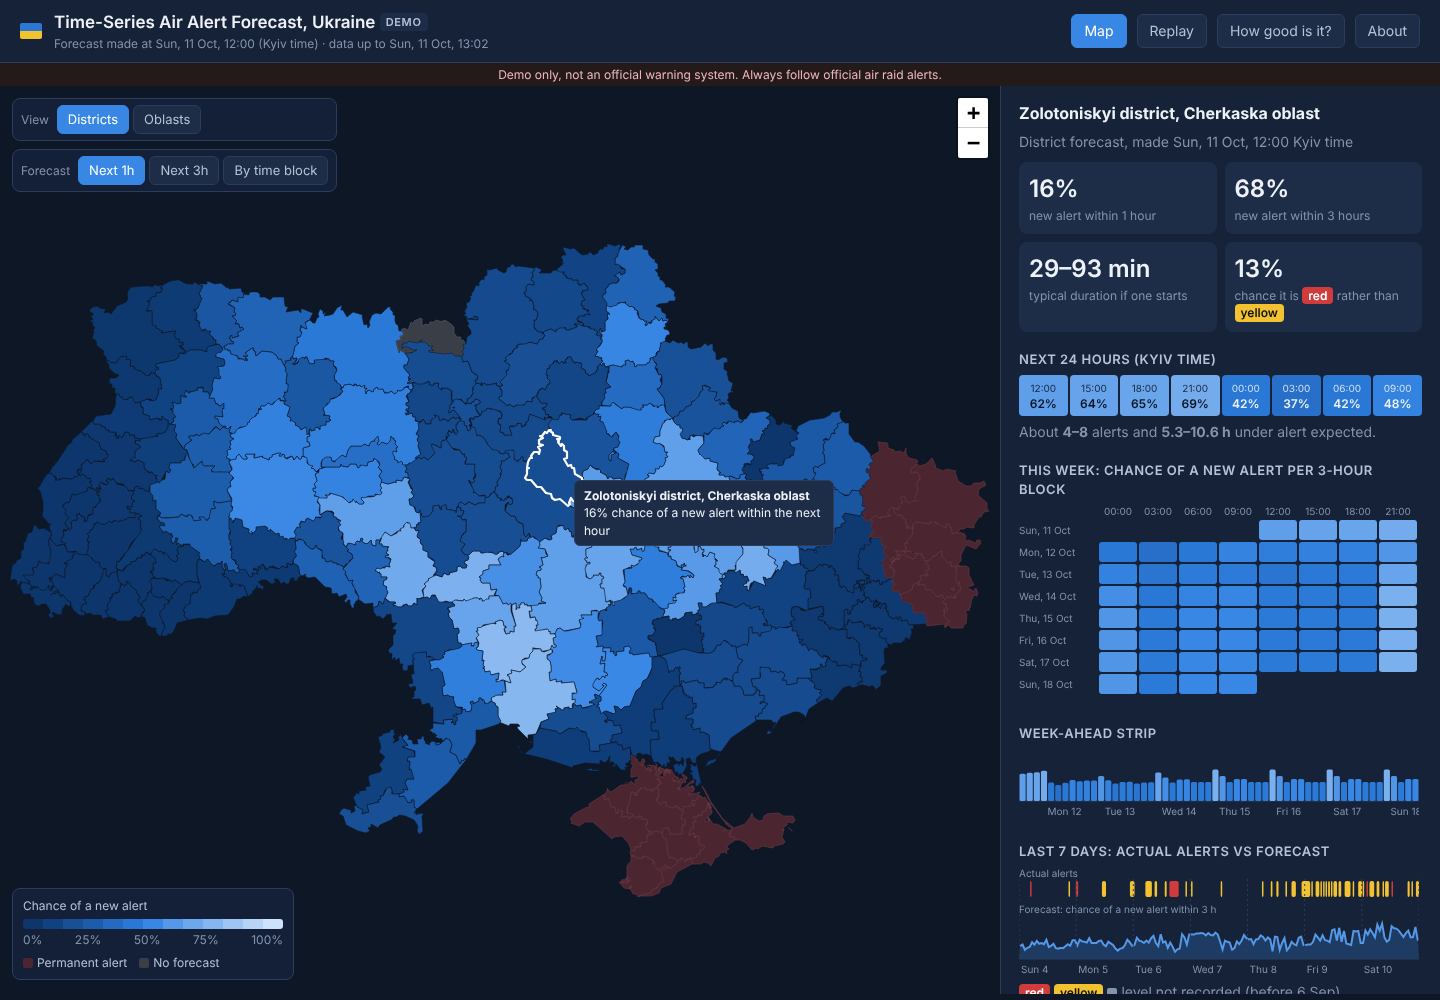
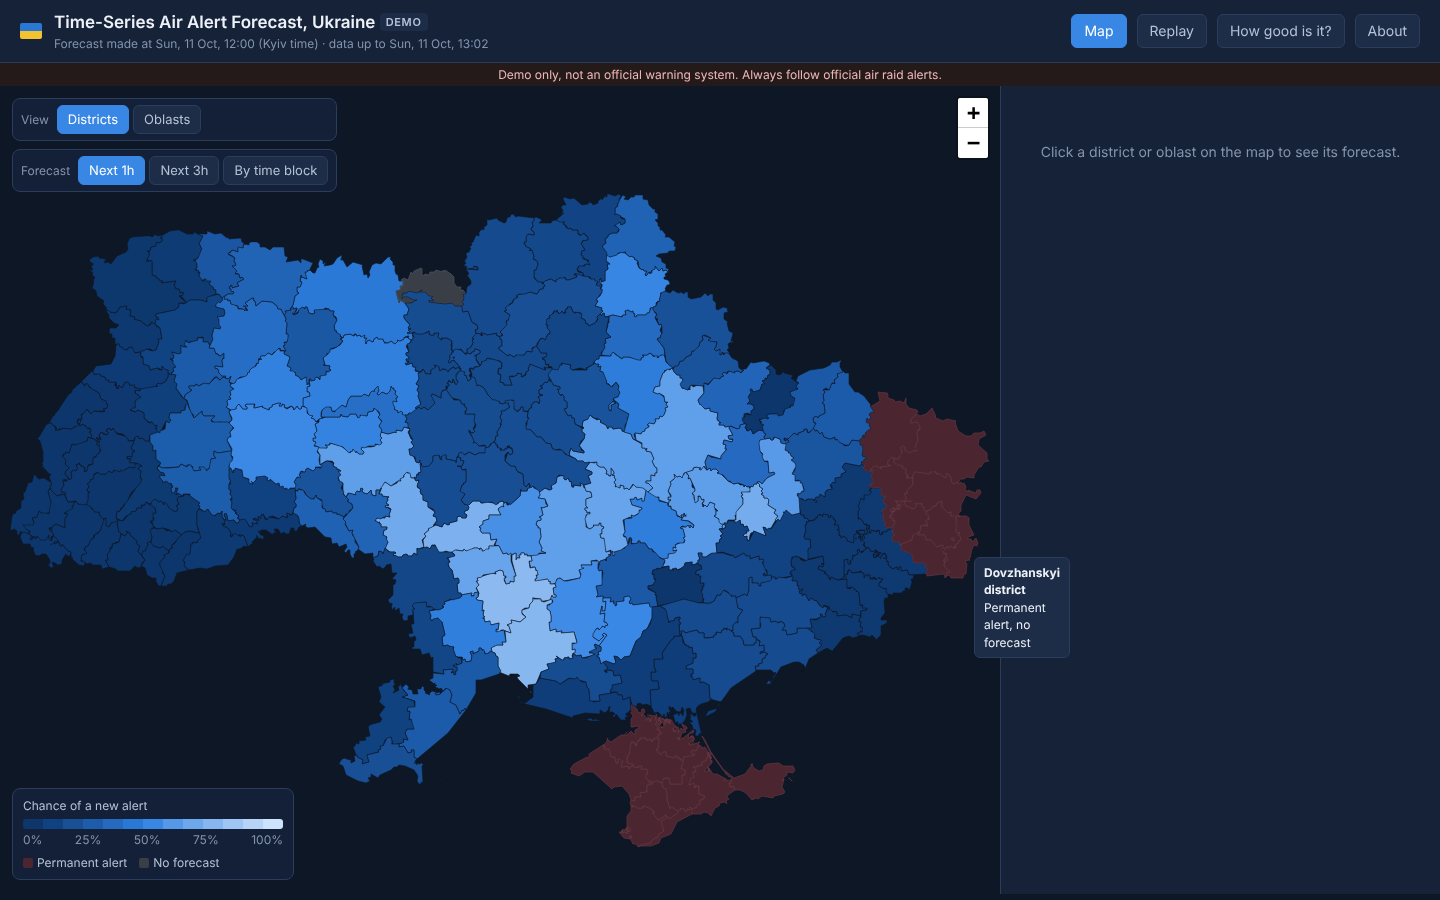
Merged 'How good is it?' page with model-comparison charts; screenshots
Claude-Session: https://claude.ai/code/session_01GyBQi7RKiQhyCoUGm942Yq

diff --git a/site/app.js b/site/app.js
@@ -279,27 +279,197 @@ function initReplay() {
   draw(0);
 }
 
-// ---------- quality ----------
+// ---------- quality: how good is it? (test results + model comparison) ----------
+const CH = { chosen: "#3987e5", other: "#6b7a93", s2: "#d95926", s3: "#199e70", grid: "#2b3d5c", ink: "#b6c2d6", muted: "#8394ad" };
+const f3 = (v) => (v == null ? "–" : (+v).toFixed(3));
+const f2 = (v) => (v == null ? "–" : (+v).toFixed(2));
+
+// Horizontal bars, one per method; the chosen method in blue, alternatives grey; value labels at the bar end.
+function hbars(host, title, items, { fmt = f3, min = 0, max = 1, ref = null, note = "" } = {}) {
+  const W = 400, lw = 150, rowH = 26, top = ref ? 18 : 6, H = top + items.length * rowH + 22;
+  const sx = (v) => lw + ((v - min) / (max - min)) * (W - lw - 54);
+  const box = el("div", { className: "chart" }, `<div class="ctitle">${title}</div>`);
+  const svg = svgEl("svg", { width: W, height: H });
+  const x0 = sx(Math.max(min, 0));
+  [min, (min + max) / 2, max].forEach((v) => {
+    svg.append(svgEl("line", { x1: sx(v), x2: sx(v), y1: top, y2: H - 18, stroke: CH.grid, "stroke-dasharray": "2,3" }));
+    const t = svgEl("text", { x: sx(v) - 8, y: H - 4 }); t.textContent = fmt(v); svg.append(t);
+  });
+  items.forEach((it, k) => {
+    const y = top + k * rowH, a = Math.min(x0, sx(it.v)), w = Math.max(2, Math.abs(sx(it.v) - x0));
+    const lab = svgEl("text", { x: 0, y: y + 15, class: it.chosen ? "strong" : "" }); lab.textContent = it.label; svg.append(lab);
+    const r = svgEl("rect", { x: a, y: y + 4, width: w, height: 16, rx: 4, fill: it.chosen ? CH.chosen : CH.other });
+    r.onmousemove = (e) => showTip(e, `${it.label}: <b>${fmt(it.v)}</b>${it.tip ? "<br>" + it.tip : ""}`);
+    r.onmouseleave = () => (tip.hidden = true);
+    svg.append(r);
+    // with a reference line the value sits inside the bar end, so it never collides with the line
+    const v = ref ? svgEl("text", { x: sx(it.v) - 6, y: y + 16, "text-anchor": "end", class: "inbar" })
+      : svgEl("text", { x: Math.max(sx(it.v), x0) + 5, y: y + 16, class: it.chosen ? "strong" : "" });
+    v.textContent = fmt(it.v); svg.append(v);
+  });
+  svg.append(svgEl("line", { x1: x0, x2: x0, y1: top, y2: H - 18, stroke: CH.muted }));
+  if (ref) {
+    svg.append(svgEl("line", { x1: sx(ref.v), x2: sx(ref.v), y1: top, y2: H - 18, stroke: "#eef2f8", "stroke-width": 1.5, "stroke-dasharray": "5,3" }));
+    const t = svgEl("text", { x: sx(ref.v), y: top - 6, "text-anchor": "middle" }); t.textContent = ref.label; svg.append(t);
+  }
+  box.append(svg);
+  if (note) box.append(el("div", { className: "cnote" }, note));
+  host.append(box);
+}
+
+// Lines over x categories (e.g. lead day), legend + end labels, hover shows all series at that x.
+function lchart(host, title, xs, series, { fmt = f3, min, max, note = "" } = {}) {
+  const W = 400, H = 210, l = 40, r = 70, t = 10, b = 26;
+  const sx = (i) => l + (i / (xs.length - 1)) * (W - l - r), sy = (v) => t + (1 - (v - min) / (max - min)) * (H - t - b);
+  const box = el("div", { className: "chart" }, `<div class="ctitle">${title}</div>`);
+  const svg = svgEl("svg", { width: W, height: H });
+  for (let k = 0; k <= 4; k++) {
+    const v = min + (k / 4) * (max - min);
+    svg.append(svgEl("line", { x1: l, x2: W - r, y1: sy(v), y2: sy(v), stroke: CH.grid }));
+    const tx = svgEl("text", { x: 0, y: sy(v) + 4 }); tx.textContent = fmt(v); svg.append(tx);
+  }
+  xs.forEach((x, i) => { const tx = svgEl("text", { x: sx(i) - 14, y: H - 6 }); tx.textContent = x; svg.append(tx); });
+  series.forEach((s) => {
+    svg.append(svgEl("polyline", { points: s.vals.map((v, i) => `${sx(i)},${sy(v)}`).join(" "), fill: "none", stroke: s.color, "stroke-width": 2 }));
+    s.vals.forEach((v, i) => svg.append(svgEl("circle", { cx: sx(i), cy: sy(v), r: 4, fill: s.color, stroke: "#0e1726", "stroke-width": 2 })));
+  });
+  // end labels, nudged apart so they never overlap
+  const ends = series.map((s) => ({ s, y: sy(s.vals[s.vals.length - 1]) })).sort((a, b2) => a.y - b2.y);
+  ends.forEach((e, k) => { if (k && e.y - ends[k - 1].y < 13) e.y = ends[k - 1].y + 13; });
+  ends.forEach((e) => { const tx = svgEl("text", { x: W - r + 6, y: e.y + 4 }); tx.textContent = e.s.short; tx.setAttribute("fill", CH.ink); svg.append(tx); });
+  xs.forEach((x, i) => {
+    const hit = svgEl("rect", { x: sx(i) - (W - l - r) / (2 * (xs.length - 1)), y: t, width: (W - l - r) / (xs.length - 1), height: H - t - b, fill: "transparent" });
+    hit.onmousemove = (e) => showTip(e, `<b>${x}</b><br>` + series.map((s) => `<i class="sw" style="background:${s.color}"></i>${s.name}: <b>${fmt(s.vals[i])}</b>`).join("<br>"));
+    hit.onmouseleave = () => (tip.hidden = true);
+    svg.append(hit);
+  });
+  box.append(svg);
+  box.append(el("div", { className: "legend-row" }, series.map((s) => `<span><i class="sw" style="background:${s.color}"></i>${s.name}</span>`).join("")));
+  if (note) box.append(el("div", { className: "cnote" }, note));
+  host.append(box);
+}
+
 function renderQuality() {
-  const M = S.D.metrics;
+  const M = S.D.metrics, F = M.full, LV = { raion: "District", oblast: "Oblast" };
   const rows = (arr, cols) => arr.map((r) => `<tr>${cols.map(([k, f, num]) => `<td class="${num ? "num" : ""}">${f ? f(r[k]) : r[k]}</td>`).join("")}</tr>`).join("");
-  const n3 = (v) => (v == null ? "–" : (+v).toFixed(3));
-  $("#quality").innerHTML = `<div class="docbody">
+  const cov = M.range_coverage_validation_week;
+  $("#quality").innerHTML = `<div class="docbody wide">
     <h2>How good is it?</h2>
-    <p>Test period: <b>${M.test_period[0]} – ${M.test_period[1]}</b>. The models were trained only on data before this period,
-      and every forecast used only information available at its time. "Baseline" is the simple rule "how often did an alert start
-      at this clock hour on each of the last 14 days".</p>
+    <p>Everything on this page was measured on the <b>test period ${M.test_period[0]} – ${M.test_period[1]}</b>: four weeks that no model and
+      no design choice had seen. Every model was trained only on earlier data, every forecast used only information available at its
+      time, and the test was run <b>once</b>. All choices were frozen before it, and nothing was changed after seeing the results, including
+      the two places where our model lost (marked <span class="lost">lost</span> below).</p>
     <p><b>AUC</b>: the chance that a random hour with a new alert got a higher forecast than a random hour without one (0.5 = guessing, 1 = perfect).
-      <b>Skill</b>: how much smaller the forecast errors are than the baseline's (0 = no better, 0.3 = 30% smaller).</p>
-    <table><tr><th>What we predict</th><th>Level</th><th class="num">Model AUC</th><th class="num">Baseline AUC</th><th class="num">Skill</th></tr>
-      ${rows(M.headline, [["target"], ["level"], ["model_auc", n3, 1], ["baseline_auc", n3, 1], ["skill", n3, 1]])}</table>
-    <h3>Calibration: when we say p, how often does it happen?</h3><div id="calib"></div>
-    <h3>Day vs night</h3><table><tr><th>Part of day (Kyiv)</th><th class="num">AUC</th></tr>${rows(M.day_night, [["part"], ["auc", n3, 1]])}</table>
-    <h3>With vs without Telegram (@war_monitor)</h3>
-    <p>The same model with and without 26 inputs computed from @war_monitor posts. Skill vs baseline; higher is better.</p>
-    <table><tr><th>Target</th><th class="num">Without Telegram</th><th class="num">With Telegram</th></tr>${rows(M.telegram, [["target"], ["without", n3, 1], ["with", n3, 1]])}</table>
+      <b>Skill</b>: how much smaller the forecast errors (Brier score) are than the simple rule "how often did an alert start at this clock hour on
+      each of the last 14 days" (0 = no better, 0.3 = 30% smaller, below 0 = worse). In the charts, <span class="chip-b">blue</span> is the method
+      the site uses and <span class="chip-g">grey</span> are the alternatives.</p>
+    <table><tr><th>What we predict</th><th>Level</th><th class="num">Model AUC</th><th class="num">Simple rule AUC</th><th class="num">Skill</th></tr>
+      ${rows(M.headline, [["target"], ["level"], ["model_auc", f3, 1], ["baseline_auc", f3, 1], ["skill", f3, 1]])}</table>
+
+    <h3>1. Our model vs simpler methods: will a new alert start?</h3>
+    <div class="seg" id="q-metric"><button data-m="ROC-AUC" class="on">AUC</button><button data-m="skill vs same-hour">Skill</button></div>
+    <p class="cap">LightGBM (our model) against three simpler methods: the clock-hour rule, "persistence" (an alert is likely again if one started in the
+      last hours) and logistic regression (a simple straight-line model). Higher is better.</p>
+    <div class="grid2" id="q-models"></div>
+
+    <h3>2. Does Telegram help?</h3>
+    <p class="cap">The same model with extra inputs from Telegram channels (@war_monitor: threat reports; @kpszsu: the Air Force). Skill; higher is better.
+      Telegram was <b>not</b> used, because it lost on the validation weeks before the test. On the test, @war_monitor was slightly better at oblast level and
+      slightly worse at district level; differences below 0.01 are within noise.</p>
+    <div class="grid2" id="q-tg"></div>
+
+    <h3>3. Is it stable? Week by week, day vs night</h3>
+    <p class="cap">Skill of the 3-hour forecast in each full test week, and AUC by time of day (Kyiv). The model was useful in every week, a bit better by day.</p>
+    <div class="grid2" id="q-stab"></div>
+
+    <h3>4. Can the percentages be taken literally? (calibration)</h3>
+    <p class="cap">District forecasts for 3 hours, grouped by the forecast. When we said 40–50%, an alert started in about 46% of cases. Points on the dashed line = perfect.</p>
+    <div id="calib"></div>
+
+    <h3>5. How long will an alert last? (duration ranges)</h3>
+    <p class="cap">We show a range "usually X–Y min" (our 25th–75th percentile). A good range contains the true duration about half the time (dashed line).</p>
+    <div class="grid2" id="q-dur"></div>
+
+    <h3>6. Next 24 hours: how many alerts, how many hours under alert?</h3>
+    <p class="cap">Average miss (lower is better), against "same as the last 24 hours" and "daily average of the last 7 days".
+      Hours under alert: our model wins by 8%. Number of alerts: <span class="lost">lost</span>, the 7-day average was 4–8% better.
+      The ranges shown on the map contained the true value ${pct(cov.raion.y_hours_24h.inside_25_75_range)} (hours) and ${pct(cov.raion.y_count_24h.inside_25_75_range)} (count) of the time
+      in the last validation week (ideal about 50%).</p>
+    <div class="grid2" id="q-24"></div>
+
+    <h3>7. When in the coming week? (3-hour blocks)</h3>
+    <p class="cap">AUC by how many days ahead. The site uses a <b>blend</b>: our timing model for the near term, fading into the "pattern rule"
+      (share of the last 14 days with an alert in that clock block) by day 3. Districts: the blend was best on days 1–3.
+      Oblasts: <span class="lost">lost</span>, the blend's percentages for days 1–2 were less accurate than the pattern rule's
+      (average error ${f3(F.oblast.timing.brier_by_day["blend (chosen)"]["day 1"])} vs ${f3(F.oblast.timing.brier_by_day["pattern rule"]["day 1"])} on day 1), although it ranks blocks equally well.</p>
+    <div class="grid2" id="q-time"></div>
+
+    <h3>8. Red or yellow?</h3>
+    <p class="cap">If an alert starts in a district, is it red (missiles, ballistic) or yellow (drones)? Trained on ${F.red.train.toLocaleString()} alerts
+      from 6–26 Sep, tested on ${F.red.test.toLocaleString()} alerts from 27 Sep (${pct(F.red.red_share)} red). The simple rule
+      "this district's red share in the last 7 days" works best.</p>
+    <div class="grid2" id="q-red"></div>
   </div>`;
+
+  const MODELS = [["baseline: same hour, last 14 days", "Clock-hour rule"], ["baseline: persistence", "Persistence"],
+    ["logistic regression", "Logistic regression"], ["LightGBM (chosen)", "LightGBM (ours)"]];
+  const drawModels = (metric) => {
+    const host = $("#q-models"); host.innerHTML = "";
+    for (const lv of ["raion", "oblast"]) for (const h of [1, 3]) {
+      const tb = F[lv][`start_${h}h`].table;
+      hbars(host, `${LV[lv]}, new alert within ${h} h`, MODELS.map(([k, lab]) => ({ label: lab, v: tb[k][metric], chosen: k.includes("chosen") })),
+        metric === "ROC-AUC" ? { min: 0.5, max: 0.9 } : { min: -0.2, max: 0.5 });
+    }
+  };
+  drawModels("ROC-AUC");
+  document.querySelectorAll("#q-metric button").forEach((b) => (b.onclick = () => {
+    document.querySelectorAll("#q-metric button").forEach((x) => x.classList.toggle("on", x === b)); drawModels(b.dataset.m);
+  }));
+
+  for (const lv of ["raion", "oblast"]) for (const h of [1, 3]) {
+    const tb = F[lv][`start_${h}h`].table, k = "skill vs same-hour";
+    hbars($("#q-tg"), `${LV[lv]}, new alert within ${h} h`, [
+      { label: "No Telegram (used)", v: tb["LightGBM (chosen)"][k], chosen: true },
+      { label: "+ @war_monitor", v: tb["LightGBM + @war_monitor"][k] }, { label: "+ @kpszsu", v: tb["LightGBM + @kpszsu"][k] }],
+    { min: 0, max: 0.5 });
+  }
+  for (const lv of ["raion", "oblast"]) {
+    const wk = F[lv].start_3h.weeks;
+    hbars($("#q-stab"), `${LV[lv]}: skill by test week (3 h)`, ["week 1", "week 2", "week 3", "week 4"].map((w) => ({ label: w[0].toUpperCase() + w.slice(1), v: wk[w]["skill vs same-hour"], chosen: true })),
+      { min: 0, max: 0.6, note: "A fifth, partial week (the last 10 hours of data) is left out." });
+  }
+  for (const lv of ["raion", "oblast"]) {
+    const dn = F[lv].start_3h.day_night;
+    hbars($("#q-stab"), `${LV[lv]}: AUC by time of day (3 h)`, [{ label: "Day (06–22)", v: dn["day (06-22 Kyiv)"]["ROC-AUC"], chosen: true },
+      { label: "Night (22–06)", v: dn["night (22-06 Kyiv)"]["ROC-AUC"], chosen: true }], { min: 0.5, max: 0.9 });
+  }
   drawCalibration($("#calib"), M.calibration);
+  for (const lv of ["raion", "oblast"]) {
+    const d = F[lv].duration, k = "true duration inside the 25-75% range", wk = "average range width (min)";
+    hbars($("#q-dur"), `${LV[lv]}: true duration inside the range`, [
+      { label: "Last 10 alerts (rule)", v: d["baseline: last 10 alerts"][k], tip: `average range width ${Math.round(d["baseline: last 10 alerts"][wk])} min` },
+      { label: "LightGBM (ours)", v: d["LightGBM quantiles (chosen)"][k], chosen: true, tip: `average range width ${Math.round(d["LightGBM quantiles (chosen)"][wk])} min` }],
+    { fmt: pct, min: 0, max: 0.7, ref: { v: 0.5, label: "ideal" } });
+  }
+  const R24 = [["baseline: same as last 24h", "Same as last 24 h"], ["baseline: daily average of last 7 days", "7-day average"], ["LightGBM (chosen)", "LightGBM (ours)"]];
+  for (const [tg, name, unit] of [["hours", "hours under alert", "h"], ["count", "number of alerts", ""]]) for (const lv of ["raion", "oblast"]) {
+    const t = F[lv].next24h[tg];
+    hbars($("#q-24"), `${LV[lv]}: ${name}, average miss${unit ? " (h)" : ""}`, R24.map(([k, lab]) => ({ label: lab, v: t[k].MAE, chosen: k.includes("chosen") })),
+      { fmt: f2, min: 0, max: 2.5 });
+  }
+  const days = ["day 1", "day 2", "day 3", "day 4", "day 5", "day 6", "day 7"];
+  for (const lv of ["raion", "oblast"]) {
+    const a = F[lv].timing.auc_by_day;
+    lchart($("#q-time"), `${LV[lv]}: AUC by days ahead`, days.map((d) => d.replace("day ", "Day ")), [
+      { name: "Blend (used)", short: "Blend", color: CH.chosen, vals: days.map((d) => a["blend (chosen)"][d]) },
+      { name: "Pattern rule", short: "Pattern", color: CH.s2, vals: days.map((d) => a["pattern rule"][d]) },
+      { name: "Timing model alone", short: "Model", color: CH.s3, vals: days.map((d) => a["timing model alone"][d]) }],
+    { min: 0.78, max: 0.84 });
+  }
+  const rt = F.red.table;
+  hbars($("#q-red"), "Red vs yellow: AUC", [["baseline: overall red share", "Always the average share"], ["baseline: previous alert's level", "Previous alert's level"],
+    ["logistic, 5 level features", "Logistic regression"], ["raion red share last 7 days (chosen)", "Red share, last 7 days"]]
+    .map(([k, lab]) => ({ label: lab, v: rt[k]["ROC-AUC"], chosen: k.includes("chosen") })), { min: 0.5, max: 0.9 });
 }
 function drawCalibration(host, cal) {
   const W = 360, H = 300, m = 34, sx = (v) => m + v * (W - m - 8), sy = (v) => H - m - v * (H - m - 8);

diff --git a/site/style.css b/site/style.css
@@ -81,3 +81,23 @@ td.num, th.num { text-align: right; font-variant-numeric: tabular-nums; }
 .rbtns { display: flex; gap: 6px; margin: 8px 0 14px; }
 #rstats .tile { margin-bottom: 8px; }
 [hidden] { display: none !important; }
+
+/* quality page charts */
+.docbody.wide { max-width: 900px; }
+.grid2 { display: grid; grid-template-columns: 1fr 1fr; gap: 14px 24px; margin: 6px 0 22px; }
+.chart { background: var(--surface); border: 1px solid var(--line); border-radius: 8px; padding: 10px 12px; }
+.chart svg { display: block; overflow: visible; }
+.chart text { fill: var(--text-muted); font-size: 11px; }
+.chart text.strong { fill: var(--text-primary); font-weight: 600; }
+.ctitle { color: var(--text-primary); font-size: 13px; font-weight: 600; margin-bottom: 6px; }
+.cnote { color: var(--text-muted); font-size: 11px; margin-top: 4px; }
+.cap { font-size: 13px; }
+.legend-row { display: flex; gap: 14px; font-size: 12px; color: var(--text-secondary); margin-top: 4px; }
+.chip-b, .chip-g { padding: 0 6px; border-radius: 4px; color: #0b1424; font-weight: 600; }
+.chip-b { background: #3987e5; } .chip-g { background: #6b7a93; color: #eef2f8; }
+.lost { background: #4b2630; color: #f3b9b9; padding: 0 6px; border-radius: 4px; font-weight: 600; font-size: 12px; }
+.seg { display: inline-flex; gap: 4px; margin-bottom: 6px; }
+.seg button { background: var(--surface); color: var(--text-secondary); border: 1px solid var(--line); border-radius: 6px; padding: 4px 12px; cursor: pointer; }
+.seg button.on { background: var(--accent); color: #fff; border-color: var(--accent); }
+.chart text.inbar { fill: #0b1424; font-weight: 600; }
+#calib svg { overflow: visible; }

diff --git a/Project-State.md b/Project-State.md
@@ -20,7 +20,8 @@ _Last updated: 2026-10-12, ~17:30 Kyiv (session 2)._ Deadline: **today 23:59 Kyi
   - Timing blend: raion +0.003 skill vs pattern; oblast −0.035 (the oblast timing model is badly calibrated on the test weeks).
   - Red vs yellow (test from 27 Sep): AUC 0.845 for the 7-day red-share rule.
 - **Website shows REAL data** (`scripts/predict_now.py` + `scripts/export_site.py`): forecast moment 2026-10-11 09:00 UTC (12:00 Kyiv), pinned data. Screenshots: `reports/screens/`. 24h ranges cover 52–65% on the last validation week (ideal 50%).
-- **NOT done:** model-comparison page, Netlify deploy, README, optional data refresh (D50).
+- **"How good is it?" page** merged with the model comparison: 8 chart sections from `metrics.json` (test results), weak spots marked "lost" (D48).
+- **NOT done:** Netlify deploy, README, merge into main, optional data refresh (D50).
 
 ## Session 2 (2026-10-12)
 - Data rebuilt at the pinned commits (both upstream repos have newer commits; the user chose to keep the pins).

diff --git a/tasks.md b/tasks.md
@@ -26,7 +26,7 @@ Deadline: **Mon 2026-10-12, 23:59 Kyiv**. Done items from earlier phases are sum
 8. [x] **Final test run** done (`reports/test_results.md`, `test_metrics.json`, hourly predictions in `reports/test_predictions_*.parquet`)
 9. [x] Retrain on all data → "now" + week-ahead predictions (`scripts/predict_now.py` → `reports/now_predictions.json`)
 10. [x] `scripts/export_site.py` → real `site/data/*.json` (sample banner gone)
-11. [ ] Site: real data DONE, screenshots in `reports/screens/`; NEXT: model-comparison page with graphs (to discuss with the user)
+11. [x] Site: real data + merged "How good is it?" page with model-comparison charts (screenshots in `reports/screens/`)
 12. [ ] Netlify deploy (with the user; `netlify.toml` publishes `site/`)
 13. [ ] README, final explanation, merge into main
 
